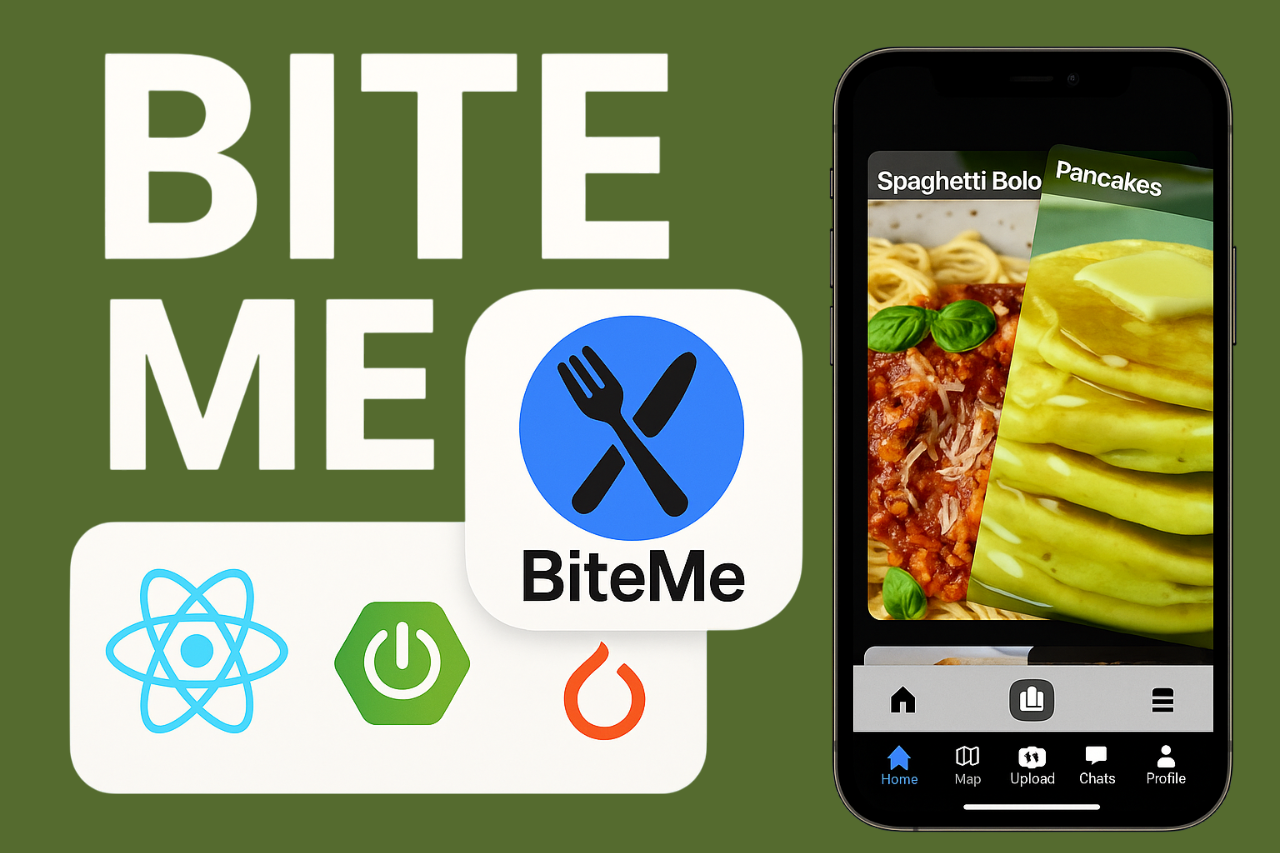
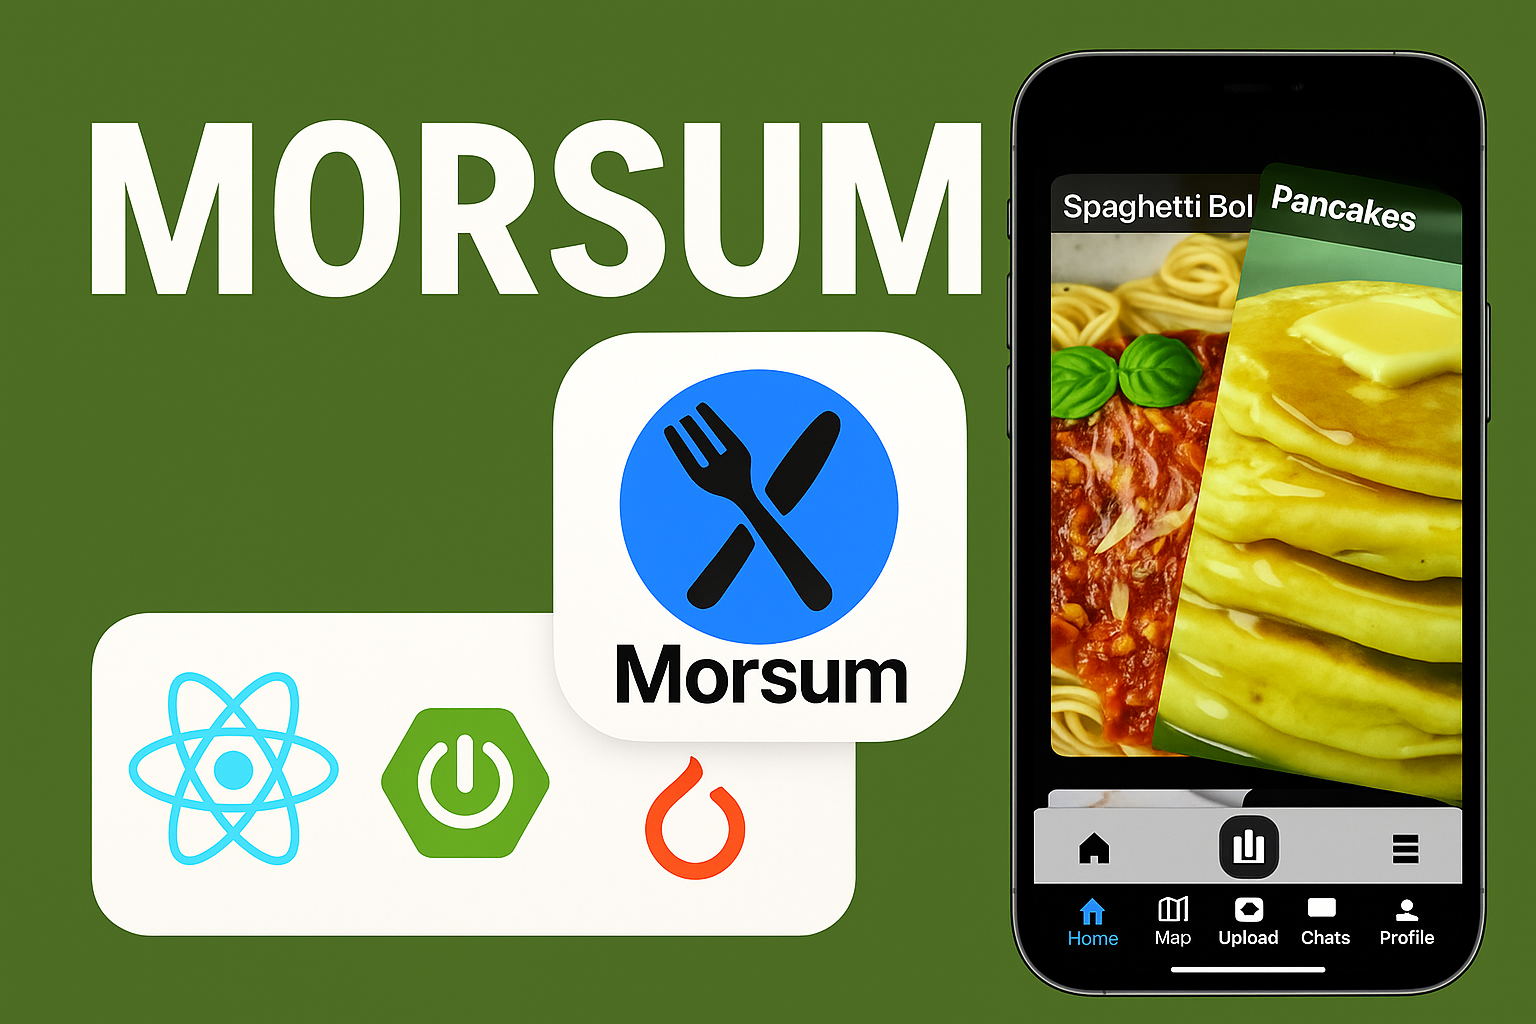
BACK TO morsum

diff --git a/src/components/projectsContentComp.jsx b/src/components/projectsContentComp.jsx
@@ -7,7 +7,7 @@ export default function ProjectsContent(){
         {
             img: "./BITEME.png",
             link: "https://testflight.apple.com/join/4QxjV5pw",
-            name: "BiteMe",
+            name: "Morsum",
             tech: [
                 "React Native",
                 "SpringBoot - REST API, WebSockets, Quartz Scheduler, JWT Auth",
@@ -16,7 +16,7 @@ export default function ProjectsContent(){
                 "PyTorch Image Recognition",
                 "AWS - S3, CloudFront, ECS + EC2"
             ],
-            desc: "BiteMe is the social app for all food lovers! Swipe through dishes to discover your next meal, share your creations on BiteMaps and BiteChats. Keep your streak alive by uploading your own recipes or showing off your take on one you found. Join as a tester and Eat, share, connect — one bite at a time."
+            desc: "Morsum is the social app for all food lovers! Swipe through dishes to discover your next meal, share your creations on MoMaps and MoChats. Keep your streak alive by uploading your own recipes or showing off your take on one you found. Join as a tester and Eat, share, connect — one bite at a time."
         },
         {
             img: "./FIGHTBATTLE.png",

diff --git a/src/components/landingPageRest.jsx b/src/components/landingPageRest.jsx
@@ -7,7 +7,7 @@ export default function LandingPageRestComp(){
         {
             img: "./BITEME.png",
             link: "https://testflight.apple.com/join/4QxjV5pw",
-            name: "BiteMe"
+            name: "Morsum"
         },
         {
             img: "./BATTLEHOME.png",
